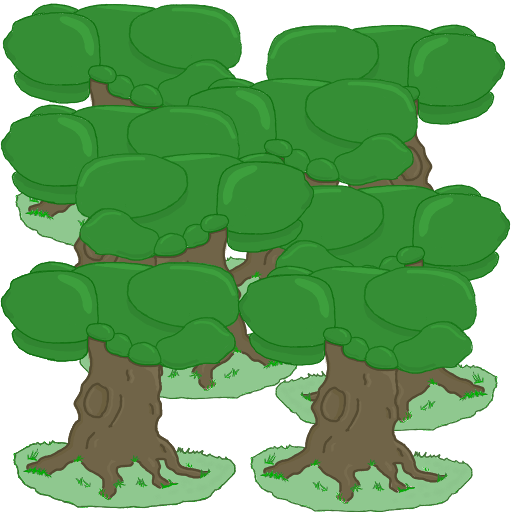
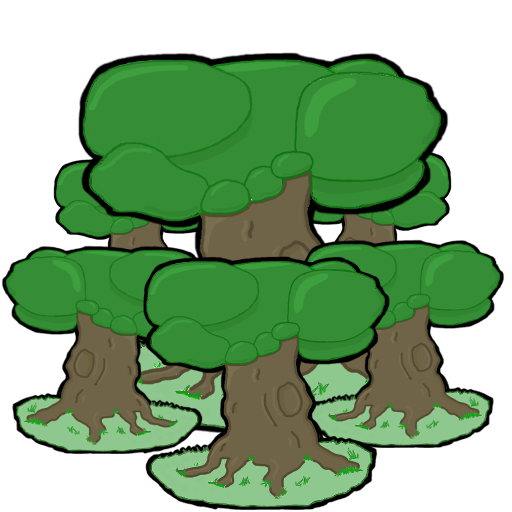
Oui la foreet

diff --git a/src/solar_system/Case.java b/src/solar_system/Case.java
@@ -54,7 +54,12 @@ public class Case {
 			this.backgroundImg = null;
 		} else {
 			try{
-				this.backgroundImg = new Image(this.resource.imagePath(this.resource.getName()));
+				if (this.resource.getName() == "Bois"){
+					this.backgroundImg = new Image("res/images/resources/foret.png");
+				}
+				else {
+					this.backgroundImg = new Image(this.resource.imagePath(this.resource.getName()));
+				}
 			} catch (SlickException e) {
 				e.printStackTrace();
 			}
